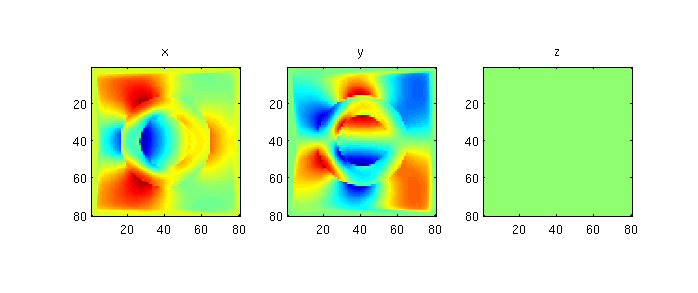
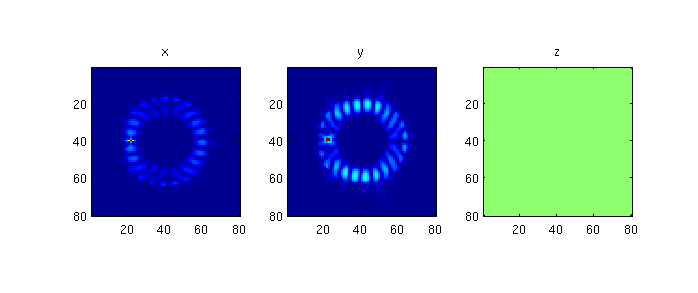
Added mode solver in 2D example.

Changed region(s): [[0.3911, 0.215, 0.6318, 0.7372], [0.1203, 0.215, 0.361, 0.7372]]

diff --git a/html/solve_2D_mode_example.html b/html/solve_2D_mode_example.html
@@ -62,8 +62,10 @@ p.footer {
   color: gray;
 }
 
-  </style></head><body><div class="content"><h1>solve_2D_mode_example</h1><!--introduction--><p>Shows how an eigenmode of a 2D structure can quickly be found in Matlab.</p><!--/introduction--><h2>Contents</h2><div><ul><li><a href="#1">Create the simulation</a></li><li><a href="#2">Form matrices and function handles</a></li></ul></div><h2>Create the simulation<a name="1"></a></h2><p>We use the <tt>add_planar</tt> and <tt>stretched_coordinates</tt> functions to create our structure as well as our simulation grid.</p><pre class="codeinput">    dims = [80 80 1]; <span class="comment">% Size of the simulation.</span>
-    omega = 0.08; <span class="comment">% Frequency of the simulation.</span>
+  </style></head><body><div class="content"><h2>Contents</h2><div><ul><li><a href="#1">solve_2D_mode_example</a></li><li><a href="#3">Create the simulation</a></li><li><a href="#4">Form matrices and function handles</a></li><li><a href="#6">Run the eigenmode solver function</a></li></ul></div><h2>solve_2D_mode_example<a name="1"></a></h2><p>Shows how an eigenmode of a 2D structure can quickly be found in Matlab.</p><pre class="codeinput"><span class="comment">% Make this a function instead of a script to allow for nested function definitions.</span>
+<span class="keyword">function</span> [] = solve_2D_mode_example()
+</pre><h2>Create the simulation<a name="3"></a></h2><p>We use the <tt>add_planar</tt> and <tt>stretched_coordinates</tt> functions to create our structure as well as our simulation grid.</p><pre class="codeinput">    dims = [80 80 1]; <span class="comment">% Size of the simulation.</span>
+    omega = 0.18; <span class="comment">% Frequency of the simulation.</span>
 
     <span class="comment">% Create a ring epsilon structure.</span>
     my_shapes = {struct(<span class="string">'type'</span>, <span class="string">'rectangle'</span>, <span class="keyword">...</span>
@@ -94,46 +96,58 @@ p.footer {
     <span class="comment">% Create the s-parameters.</span>
     [s_prim, s_dual] = stretched_coordinates(omega, dims, [10 10 0]);
 
-    <span class="comment">% Create the current source.</span>
+    <span class="comment">% Create the current source this is only used to get v_guess for the mode solver.</span>
     J = {zeros(dims), zeros(dims), zeros(dims)};
     J{1}(22, 40, 1) = 1; <span class="comment">% Point source inside ring.</span>
 
     <span class="comment">% Permeability.</span>
     mu = {ones(dims), ones(dims), ones(dims)};
-</pre><img vspace="5" hspace="5" src="solve_2D_mode_example_01.png" alt=""> <h2>Form matrices and function handles<a name="2"></a></h2><p>We now form the necessary linear algebra components and function hanles to solve the system using <tt>eigenmode_solver</tt>.</p><p>We actually used a modified electromagnetic wave equation where <img src="solve_2D_mode_example_eq97801.png" alt="$F = \sqrt{\epsilon} E$">,</p><p><img src="solve_2D_mode_example_eq14019.png" alt="$$ \frac{1}{\sqrt{\epsilon}}\nabla\times\mu^{-1}\nabla\times\frac{1}{\sqrt{\epsilon}}F - \omega^2 F = 0$$"></p><pre class="codeinput">    <span class="comment">% Get ingredient matrices and vectors.</span>
+</pre><img vspace="5" hspace="5" src="solve_2D_mode_example_01.png" alt=""> <h2>Form matrices and function handles<a name="4"></a></h2><p>We now form the necessary linear algebra components and function hanles to solve the system using <tt>eigenmode_solver</tt>.</p><p>We actually used a modified electromagnetic wave equation where <img src="solve_2D_mode_example_eq97801.png" alt="$F = \sqrt{\epsilon} E$">,</p><p><img src="solve_2D_mode_example_eq14019.png" alt="$$ \frac{1}{\sqrt{\epsilon}}\nabla\times\mu^{-1}\nabla\times\frac{1}{\sqrt{\epsilon}}F - \omega^2 F = 0$$"></p><pre class="codeinput">    <span class="comment">% Get ingredient matrices and vectors.</span>
     [A1, A2, m, e, b] = maxwell_matrices(omega, s_prim, s_dual, mu, epsilon, J);
 
     <span class="comment">% Form full matrix.</span>
     n = prod(dims);
-    A = A1 * spdiags(m.^-1, 0, 3*n, 3*n) * A2 - omega^2 * spdiags(e, 0, 3*n, 3*n);
+    my_diag = @(z) spdiags(z(:), 0, numel(z), numel(z));
+    A = my_diag(e.^-0.5) * A1 * my_diag(m.^-1) * A2 * my_diag(e.^-0.5);
 
-    <span class="comment">% Solve</span>
-    x = A \ b;
-    fprintf(<span class="string">'Error: %e\n'</span>, norm(A*x-b)/norm(b));
+    <span class="comment">% Compose function handles.</span>
+    mult_A = @(x) A * x;
+    solve_A_shifted = @(lambda, b) (A - lambda * speye(3*n)) \ b;
 
-    <span class="comment">% Reshape solution and plot it.</span>
-    <span class="keyword">for</span> k = 1 : 3
-        E{k} = reshape(x((k-1)*n+1 : k*n), dims);
-
-        subplot(1, 3, k)
-        imagesc(real(E{k})'); axis <span class="string">equal</span> <span class="string">tight</span>;
-        title(xyz(k));
+    <span class="comment">% In-line function for visualization of progress.</span>
+    <span class="keyword">function</span> my_vis(lambda, v)
         colormap <span class="string">jet</span>
+        <span class="keyword">for</span> k = 1 : 3
+            E{k} = reshape(v((k-1)*n+1 : k*n), dims);
+            subplot(1, 3, k)
+            imagesc(abs(E{k})'); axis <span class="string">equal</span> <span class="string">tight</span>; <span class="comment">% abs looks better than real :).</span>
+            title(xyz(k));
+        <span class="keyword">end</span>
     <span class="keyword">end</span>
+
+    <span class="comment">% Solve to get v_guess.</span>
+    v_guess = solve_A_shifted(omega^2, b);
+    my_vis(omega^2, v_guess)
     snapnow;
-</pre><pre class="codeoutput">Error: 3.366557e-15
-</pre><img vspace="5" hspace="5" src="solve_2D_mode_example_02.png" alt=""> <p class="footer"><br>
+</pre><img vspace="5" hspace="5" src="solve_2D_mode_example_02.png" alt=""> <p>The figure above shows our initial <tt>v_guess</tt>, which we have obtained via simulation.</p><h2>Run the eigenmode solver function<a name="6"></a></h2><pre class="codeinput">    <span class="comment">% Find the eigenmode</span>
+    [lambda, v] = eigenmode_solver(mult_A, solve_A_shifted, @my_vis, v_guess, 10, 1e-6);
+    snapnow;
+</pre><img vspace="5" hspace="5" src="solve_2D_mode_example_03.png" alt=""> <p>Here we obtain one of the eigenmodes of the ring resonator.</p><pre class="codeinput"><span class="keyword">end</span>
+</pre><p class="footer"><br>
       Published with MATLAB&reg; 7.13<br></p></div><!--
 ##### SOURCE BEGIN #####
 %% solve_2D_mode_example
 % Shows how an eigenmode of a 2D structure can quickly be found in Matlab.
+
+% Make this a function instead of a script to allow for nested function definitions.
+function [] = solve_2D_mode_example()
 
 %% Create the simulation
 % We use the |add_planar| and |stretched_coordinates| functions to create our 
 % structure as well as our simulation grid.
 
     dims = [80 80 1]; % Size of the simulation.
-    omega = 0.08; % Frequency of the simulation.
+    omega = 0.18; % Frequency of the simulation.
 
     % Create a ring epsilon structure.
     my_shapes = {struct('type', 'rectangle', ...
@@ -164,7 +178,7 @@ p.footer {
     % Create the s-parameters.
     [s_prim, s_dual] = stretched_coordinates(omega, dims, [10 10 0]);
 
-    % Create the current source.
+    % Create the current source this is only used to get v_guess for the mode solver.
     J = {zeros(dims), zeros(dims), zeros(dims)};
     J{1}(22, 40, 1) = 1; % Point source inside ring.
 
@@ -186,24 +200,43 @@ p.footer {
 
     % Form full matrix.
     n = prod(dims);
-    A = A1 * spdiags(m.^-1, 0, 3*n, 3*n) * A2 - omega^2 * spdiags(e, 0, 3*n, 3*n);
+    my_diag = @(z) spdiags(z(:), 0, numel(z), numel(z));
+    A = my_diag(e.^-0.5) * A1 * my_diag(m.^-1) * A2 * my_diag(e.^-0.5);
 
-    % Solve
-    x = A \ b;
-    fprintf('Error: %e\n', norm(A*x-b)/norm(b));
+    % Compose function handles.
+    mult_A = @(x) A * x;
+    solve_A_shifted = @(lambda, b) (A - lambda * speye(3*n)) \ b;
 
-    % Reshape solution and plot it.
-    for k = 1 : 3
-        E{k} = reshape(x((k-1)*n+1 : k*n), dims);
-
-        subplot(1, 3, k)
-        imagesc(real(E{k})'); axis equal tight;
-        title(xyz(k));
+    % In-line function for visualization of progress.
+    function my_vis(lambda, v)
         colormap jet 
+        for k = 1 : 3
+            E{k} = reshape(v((k-1)*n+1 : k*n), dims);
+            subplot(1, 3, k)
+            imagesc(abs(E{k})'); axis equal tight; % abs looks better than real :).
+            title(xyz(k));
+        end
     end
+
+    % Solve to get v_guess.
+    v_guess = solve_A_shifted(omega^2, b);
+    my_vis(omega^2, v_guess)
     snapnow;
 
 %%
+% The figure above shows our initial |v_guess|, which we have obtained via simulation.
+%
+
+%% Run the eigenmode solver function
+
+    % Find the eigenmode
+    [lambda, v] = eigenmode_solver(mult_A, solve_A_shifted, @my_vis, v_guess, 10, 1e-6);
+    snapnow;
+
+%%
+% Here we obtain one of the eigenmodes of the ring resonator.
+%
+end
 
 ##### SOURCE END #####
 --></body></html>

diff --git a/solve_2D_mode_example.m b/solve_2D_mode_example.m
@@ -1,12 +1,15 @@
 %% solve_2D_mode_example
 % Shows how an eigenmode of a 2D structure can quickly be found in Matlab.
 
+% Make this a function instead of a script to allow for nested function definitions.
+function [] = solve_2D_mode_example()
+
 %% Create the simulation
 % We use the |add_planar| and |stretched_coordinates| functions to create our 
 % structure as well as our simulation grid.
 
     dims = [80 80 1]; % Size of the simulation.
-    omega = 0.08; % Frequency of the simulation.
+    omega = 0.18; % Frequency of the simulation.
 
     % Create a ring epsilon structure.
     my_shapes = {struct('type', 'rectangle', ...
@@ -37,7 +40,7 @@
     % Create the s-parameters.
     [s_prim, s_dual] = stretched_coordinates(omega, dims, [10 10 0]);
 
-    % Create the current source.
+    % Create the current source this is only used to get v_guess for the mode solver.
     J = {zeros(dims), zeros(dims), zeros(dims)};
     J{1}(22, 40, 1) = 1; % Point source inside ring.
 
@@ -59,21 +62,40 @@
 
     % Form full matrix.
     n = prod(dims);
-    A = A1 * spdiags(m.^-1, 0, 3*n, 3*n) * A2 - omega^2 * spdiags(e, 0, 3*n, 3*n);
+    my_diag = @(z) spdiags(z(:), 0, numel(z), numel(z));
+    A = my_diag(e.^-0.5) * A1 * my_diag(m.^-1) * A2 * my_diag(e.^-0.5);
 
-    % Solve
-    x = A \ b;
-    fprintf('Error: %e\n', norm(A*x-b)/norm(b));
+    % Compose function handles.
+    mult_A = @(x) A * x;
+    solve_A_shifted = @(lambda, b) (A - lambda * speye(3*n)) \ b;
 
-    % Reshape solution and plot it.
-    for k = 1 : 3
-        E{k} = reshape(x((k-1)*n+1 : k*n), dims);
-
-        subplot(1, 3, k)
-        imagesc(real(E{k})'); axis equal tight;
-        title(xyz(k));
+    % In-line function for visualization of progress.
+    function my_vis(lambda, v)
         colormap jet 
+        for k = 1 : 3
+            E{k} = reshape(v((k-1)*n+1 : k*n), dims);
+            subplot(1, 3, k)
+            imagesc(abs(E{k})'); axis equal tight; % abs looks better than real :).
+            title(xyz(k));
+        end
     end
+
+    % Solve to get v_guess.
+    v_guess = solve_A_shifted(omega^2, b);
+    my_vis(omega^2, v_guess)
     snapnow;
 
 %%
+% The figure above shows our initial |v_guess|, which we have obtained via simulation.
+%
+
+%% Run the eigenmode solver function
+
+    % Find the eigenmode
+    [lambda, v] = eigenmode_solver(mult_A, solve_A_shifted, @my_vis, v_guess, 10, 1e-6);
+    snapnow;
+
+%%
+% Here we obtain one of the eigenmodes of the ring resonator.
+%
+end
